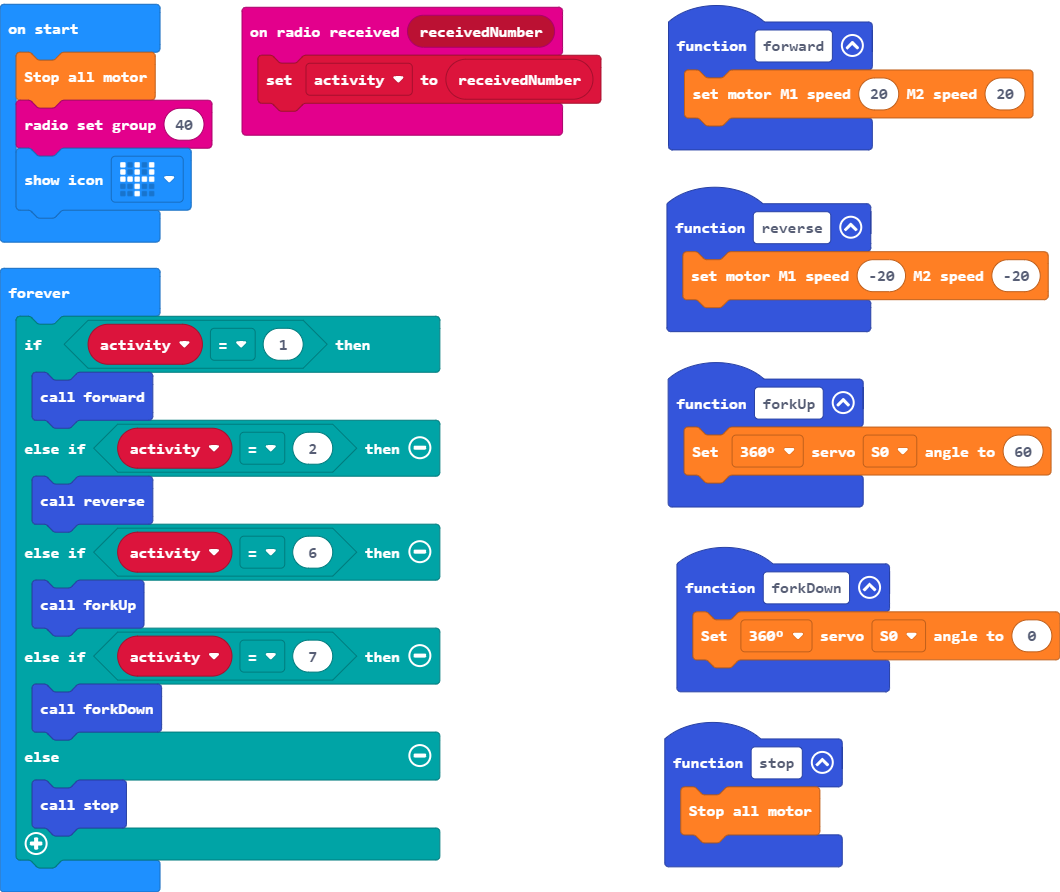
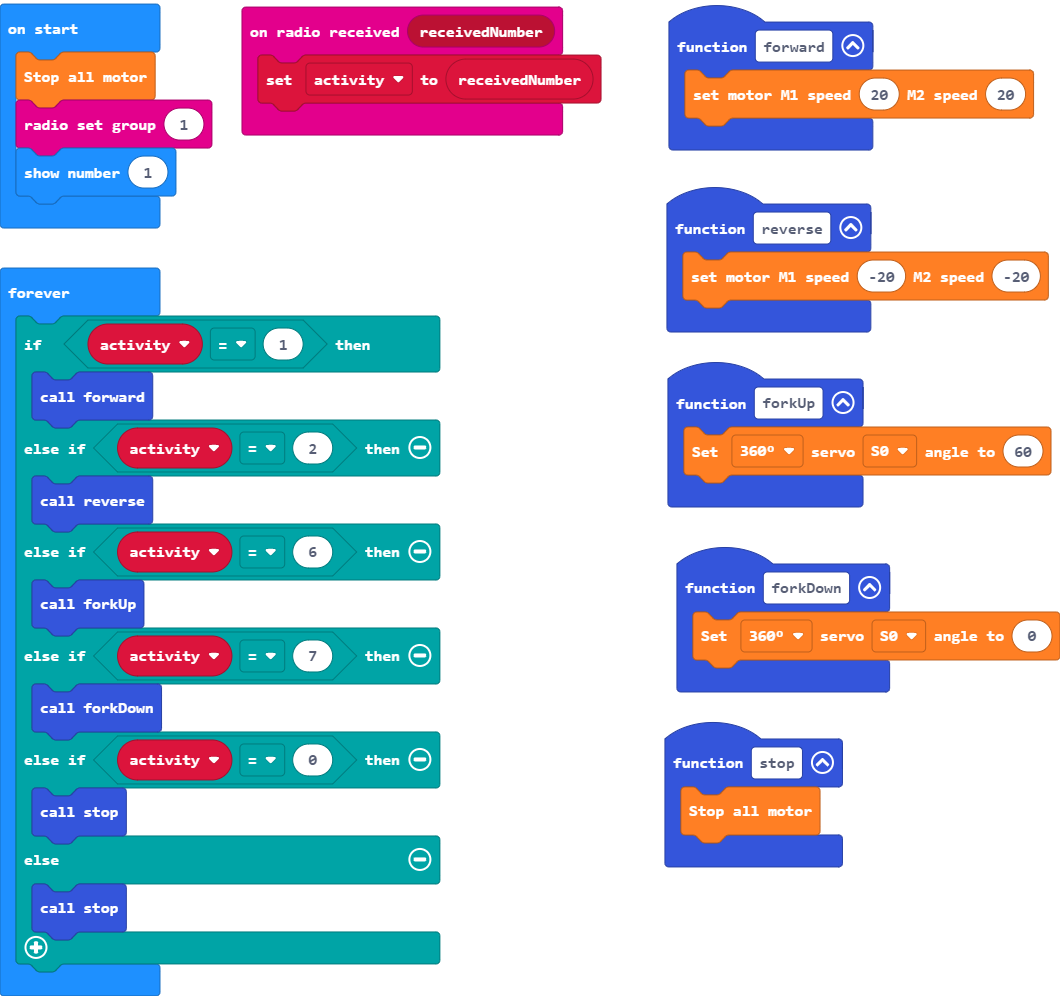
Update main.blocks, main.ts

diff --git a/main.ts b/main.ts
@@ -18,8 +18,8 @@ function forkUp () {
 }
 let activity = 0
 wuKong.stopAllMotor()
-radio.setGroup(40)
-basic.showIcon(IconNames.Pitchfork)
+radio.setGroup(1)
+basic.showNumber(1)
 basic.forever(function () {
     if (activity == 1) {
         forward()
@@ -29,6 +29,8 @@ basic.forever(function () {
         forkUp()
     } else if (activity == 7) {
         forkDown()
+    } else if (activity == 0) {
+        stop()
     } else {
         stop()
     }
